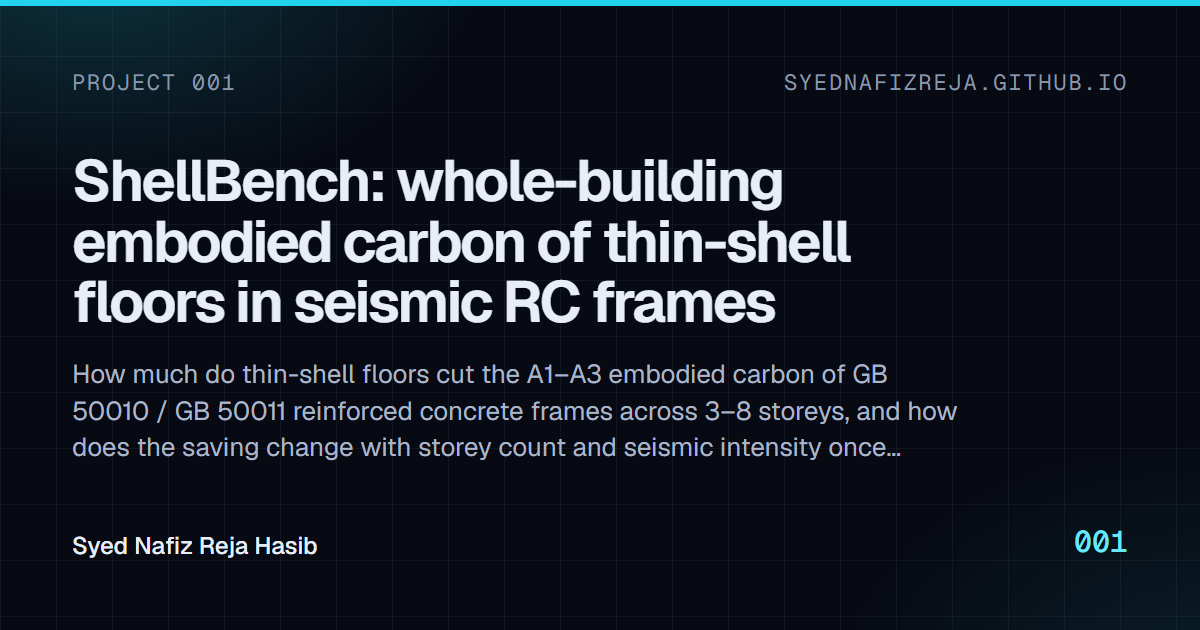
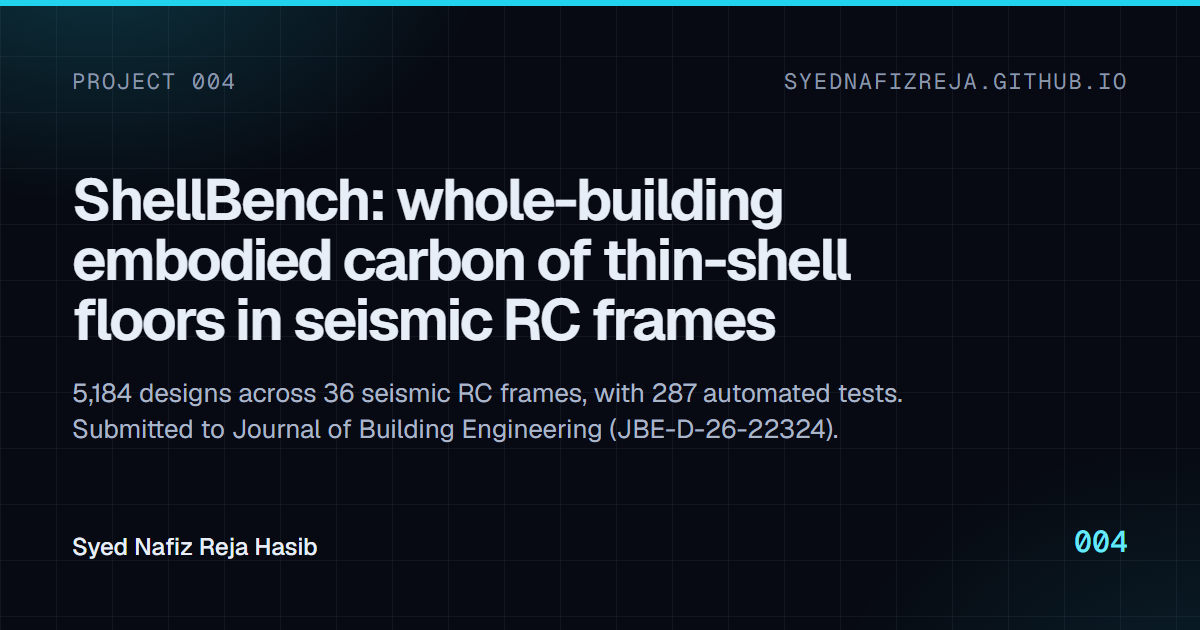
Record the ShellBench and ShellForm journal submissions.
ShellBench is submitted to Journal of Building Engineering as JBE-D-26-22324. ShellForm is submitted to Structures, with no manuscript ID yet. The dataset DOIs and the ShellLab 1e-9 m coordinate check match the repositories.

diff --git a/src/lib/bibtex.ts b/src/lib/bibtex.ts
@@ -20,8 +20,13 @@ export function toBibtex(p: Pub, id: string): string {
     fields.push(['journal', p.venue], ['year', p.year], ['volume', p.volume], ['number', p.issue], ['pages', p.pages]);
   } else if (p.type === 'manuscript') {
     type = 'unpublished';
-    const status = p.status === 'under-review' ? `Under review${p.venue ? `, ${p.venue}` : ''}` : 'In preparation';
-    fields.push(['note', status], ['year', p.year]);
+    const status =
+      p.status === 'under-review'
+        ? `Under review${p.venue ? `, ${p.venue}` : ''}`
+        : p.status === 'submitted'
+          ? `Submitted${p.venue ? `, ${p.venue}` : ''}`
+          : 'In preparation';
+    fields.push(['note', p.note ? `${status}. ${p.note}` : status], ['year', p.year]);
   } else {
     fields.push(['howpublished', p.venue || undefined], ['note', 'Technical report'], ['year', p.year]);
   }

diff --git a/src/content.config.ts b/src/content.config.ts
@@ -62,7 +62,7 @@ const publications = defineCollection({
     pages: z.string().optional(),
     doi: z.string().optional(),
     url: z.url().optional(),
-    status: z.enum(['published', 'under-review', 'in-preparation', 'preprint']),
+    status: z.enum(['published', 'submitted', 'under-review', 'in-preparation', 'preprint']),
     type: z.enum(['journal', 'manuscript', 'report']),
     note: z.string().optional(),
     project: z.string().optional(),

diff --git a/src/lib/site.ts b/src/lib/site.ts
@@ -38,6 +38,7 @@ export const STATUS_LABEL = {
 
 export const PUB_STATUS_LABEL = {
   published: 'Published',
+  submitted: 'Submitted',
   'under-review': 'Under review',
   'in-preparation': 'In preparation',
   preprint: 'Preprint / report',
